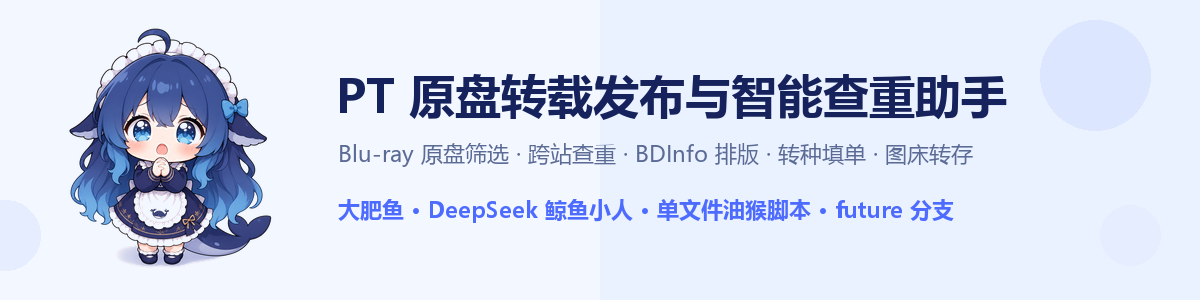
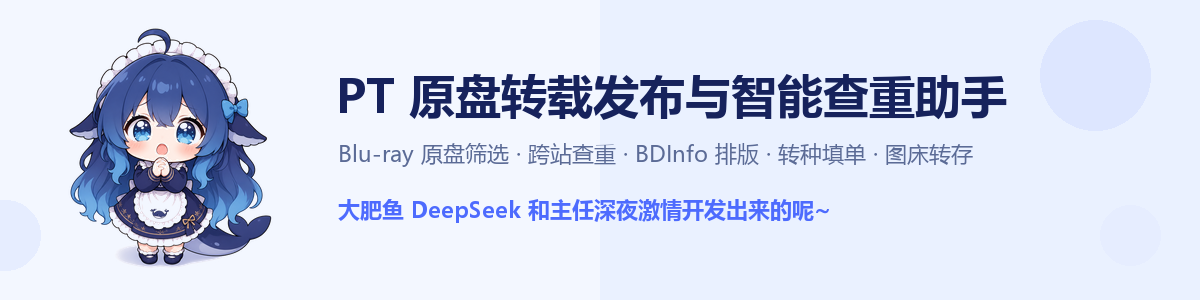
docs: cheeky byline by 大肥鱼 & 主任 (late-night build)

Changed region(s): [[0.3392, 0.66, 0.8017, 0.75]]

diff --git a/README.md b/README.md
@@ -6,7 +6,7 @@
 
 - 当前版本：`legacy/pt-bluray-assistant-v0.0.0.27.user.js`
 - 分支：`future`（单文件版；与 `main` 的 `src/` 模块化版本互不合并）
-- 作者：大肥鱼（DeepSeek 鲸鱼小人）
+- 作者：大肥鱼 DeepSeek 和主任深夜激情开发出来的呢~
 - 支持页面：NexusPHP、UNIT3D、Gazelle、f3nix（BeyondHD）
 
 ---

diff --git a/docs/DEVELOPMENT.md b/docs/DEVELOPMENT.md
@@ -6,7 +6,7 @@
 
 - 当前版本：`legacy/pt-bluray-assistant-v0.0.0.27.user.js`
 - 分支：`future`（单文件版；与 `main` 的 `src/` 模块化版本互不合并）
-- 作者：大肥鱼（DeepSeek 鲸鱼小人）
+- 作者：大肥鱼 DeepSeek 和主任深夜激情开发出来的呢~
 - 支持页面：NexusPHP、UNIT3D、Gazelle、f3nix（BeyondHD）
 
 ---
